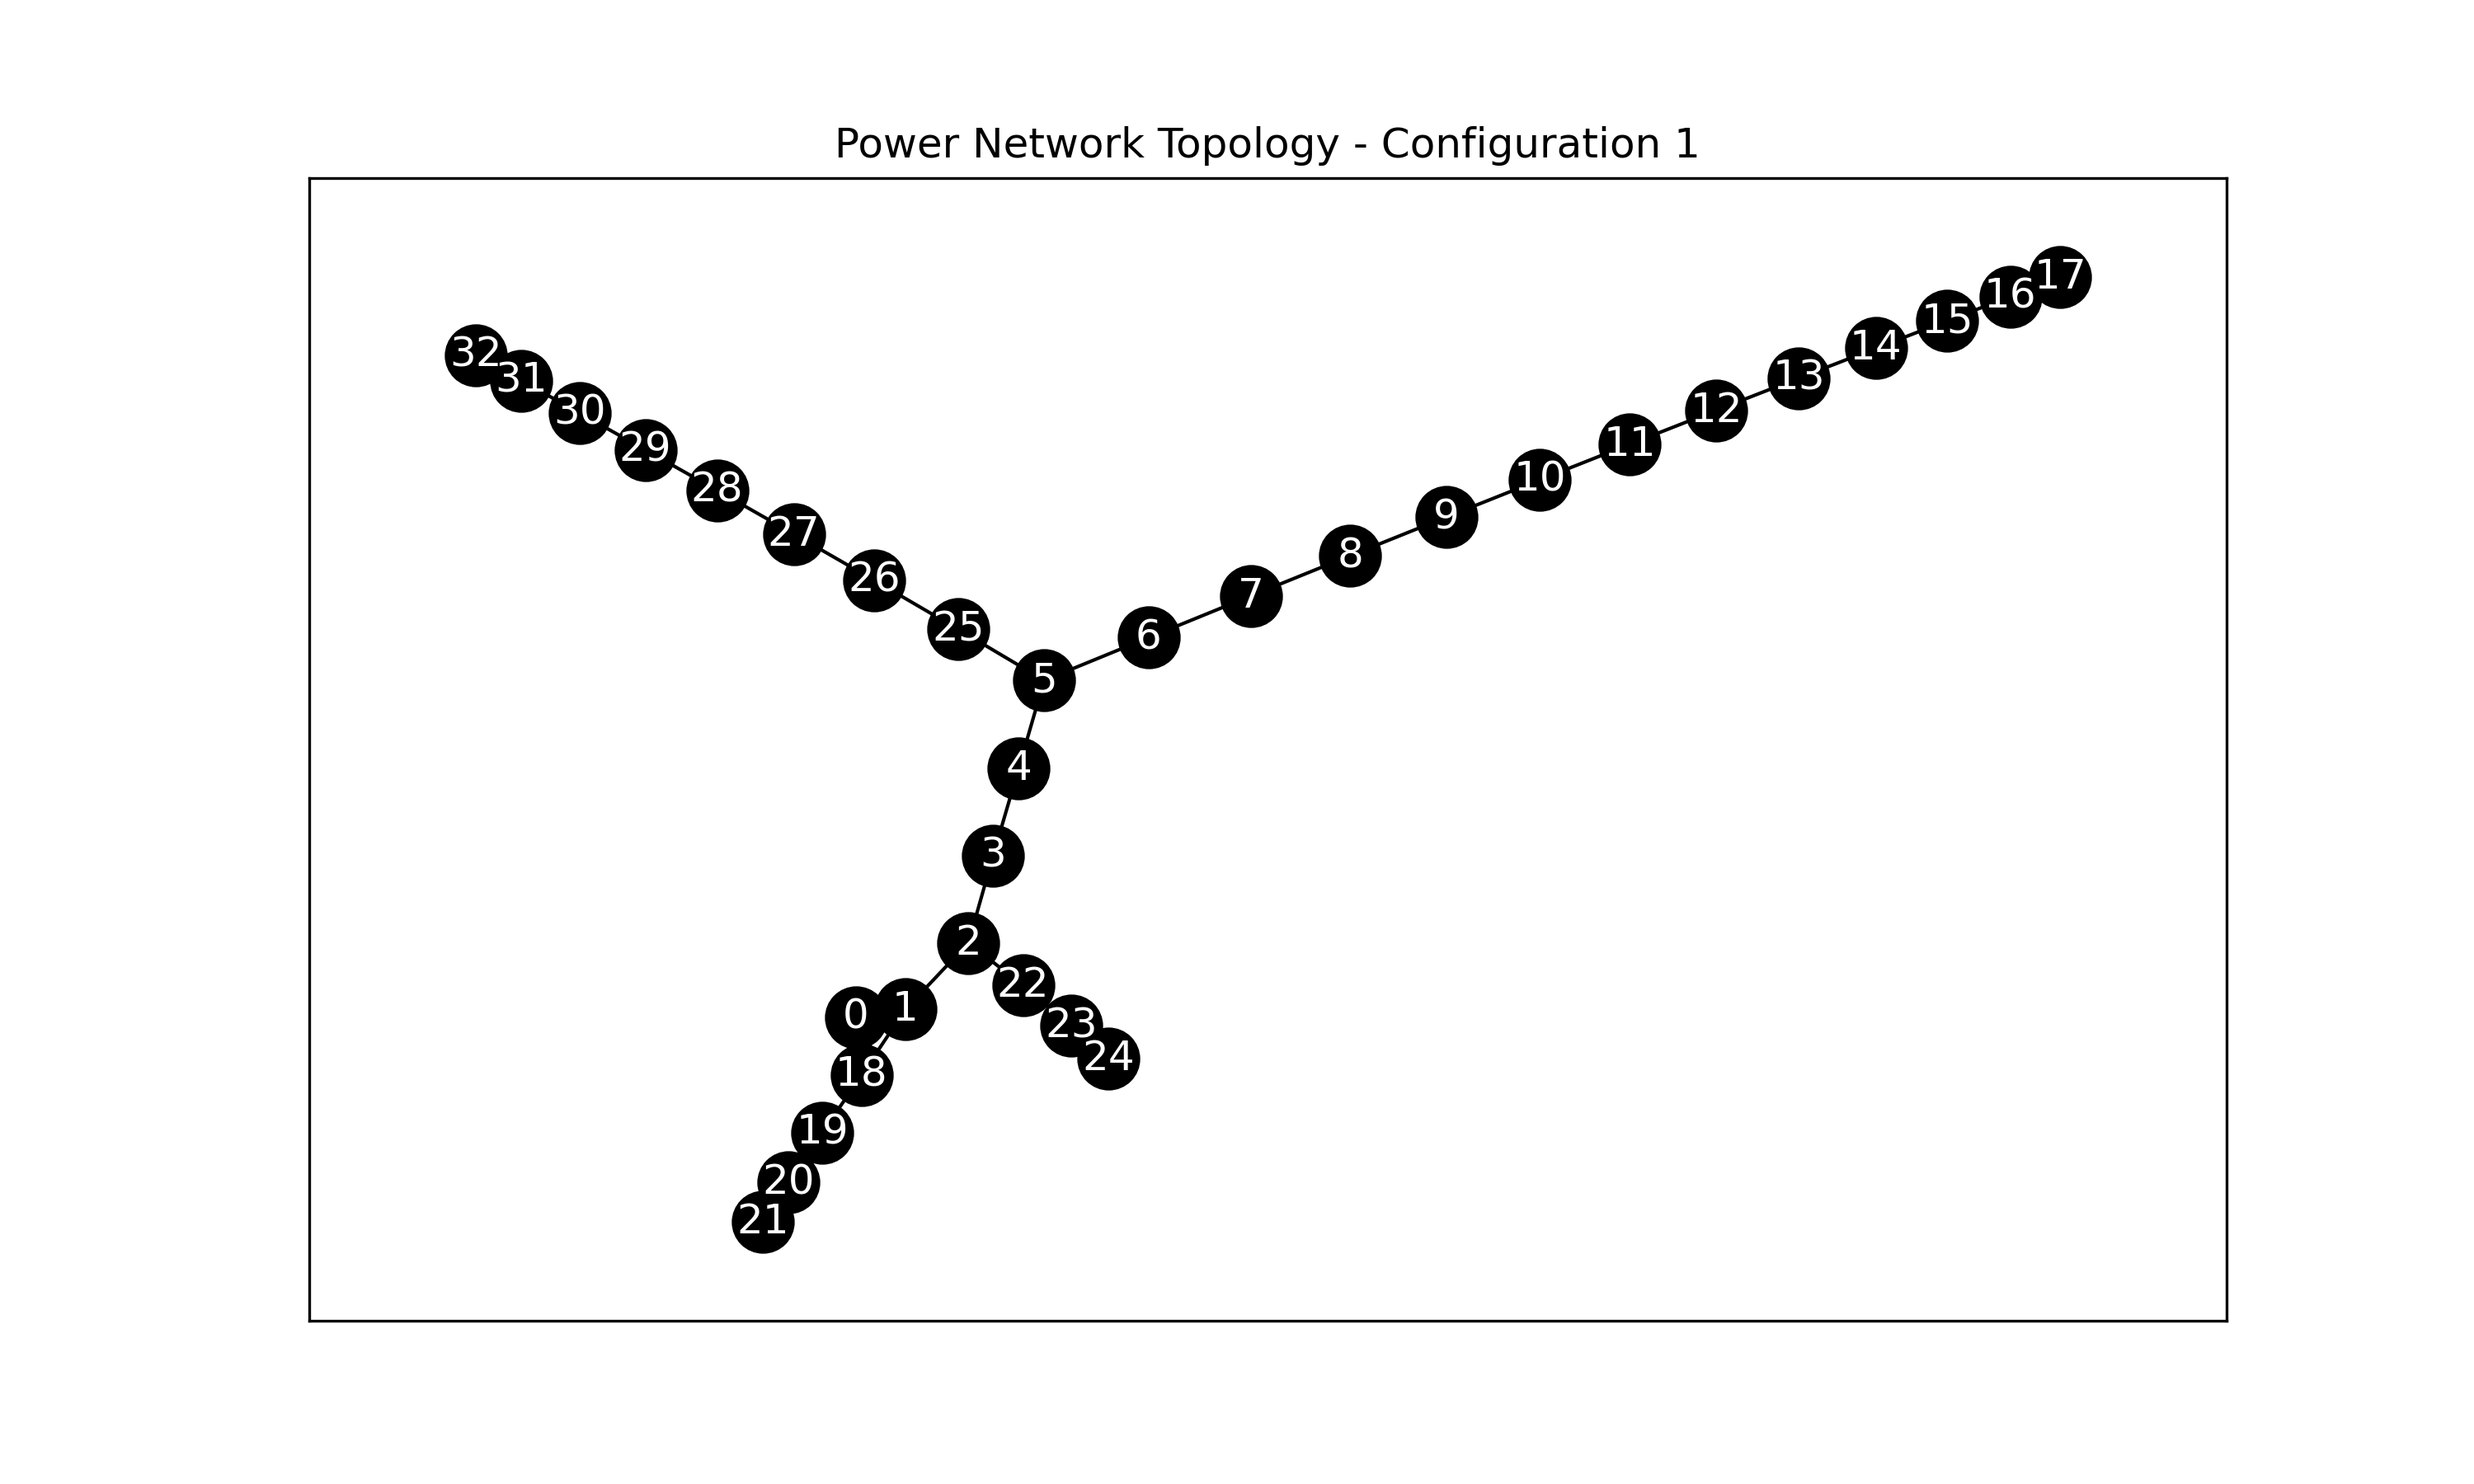
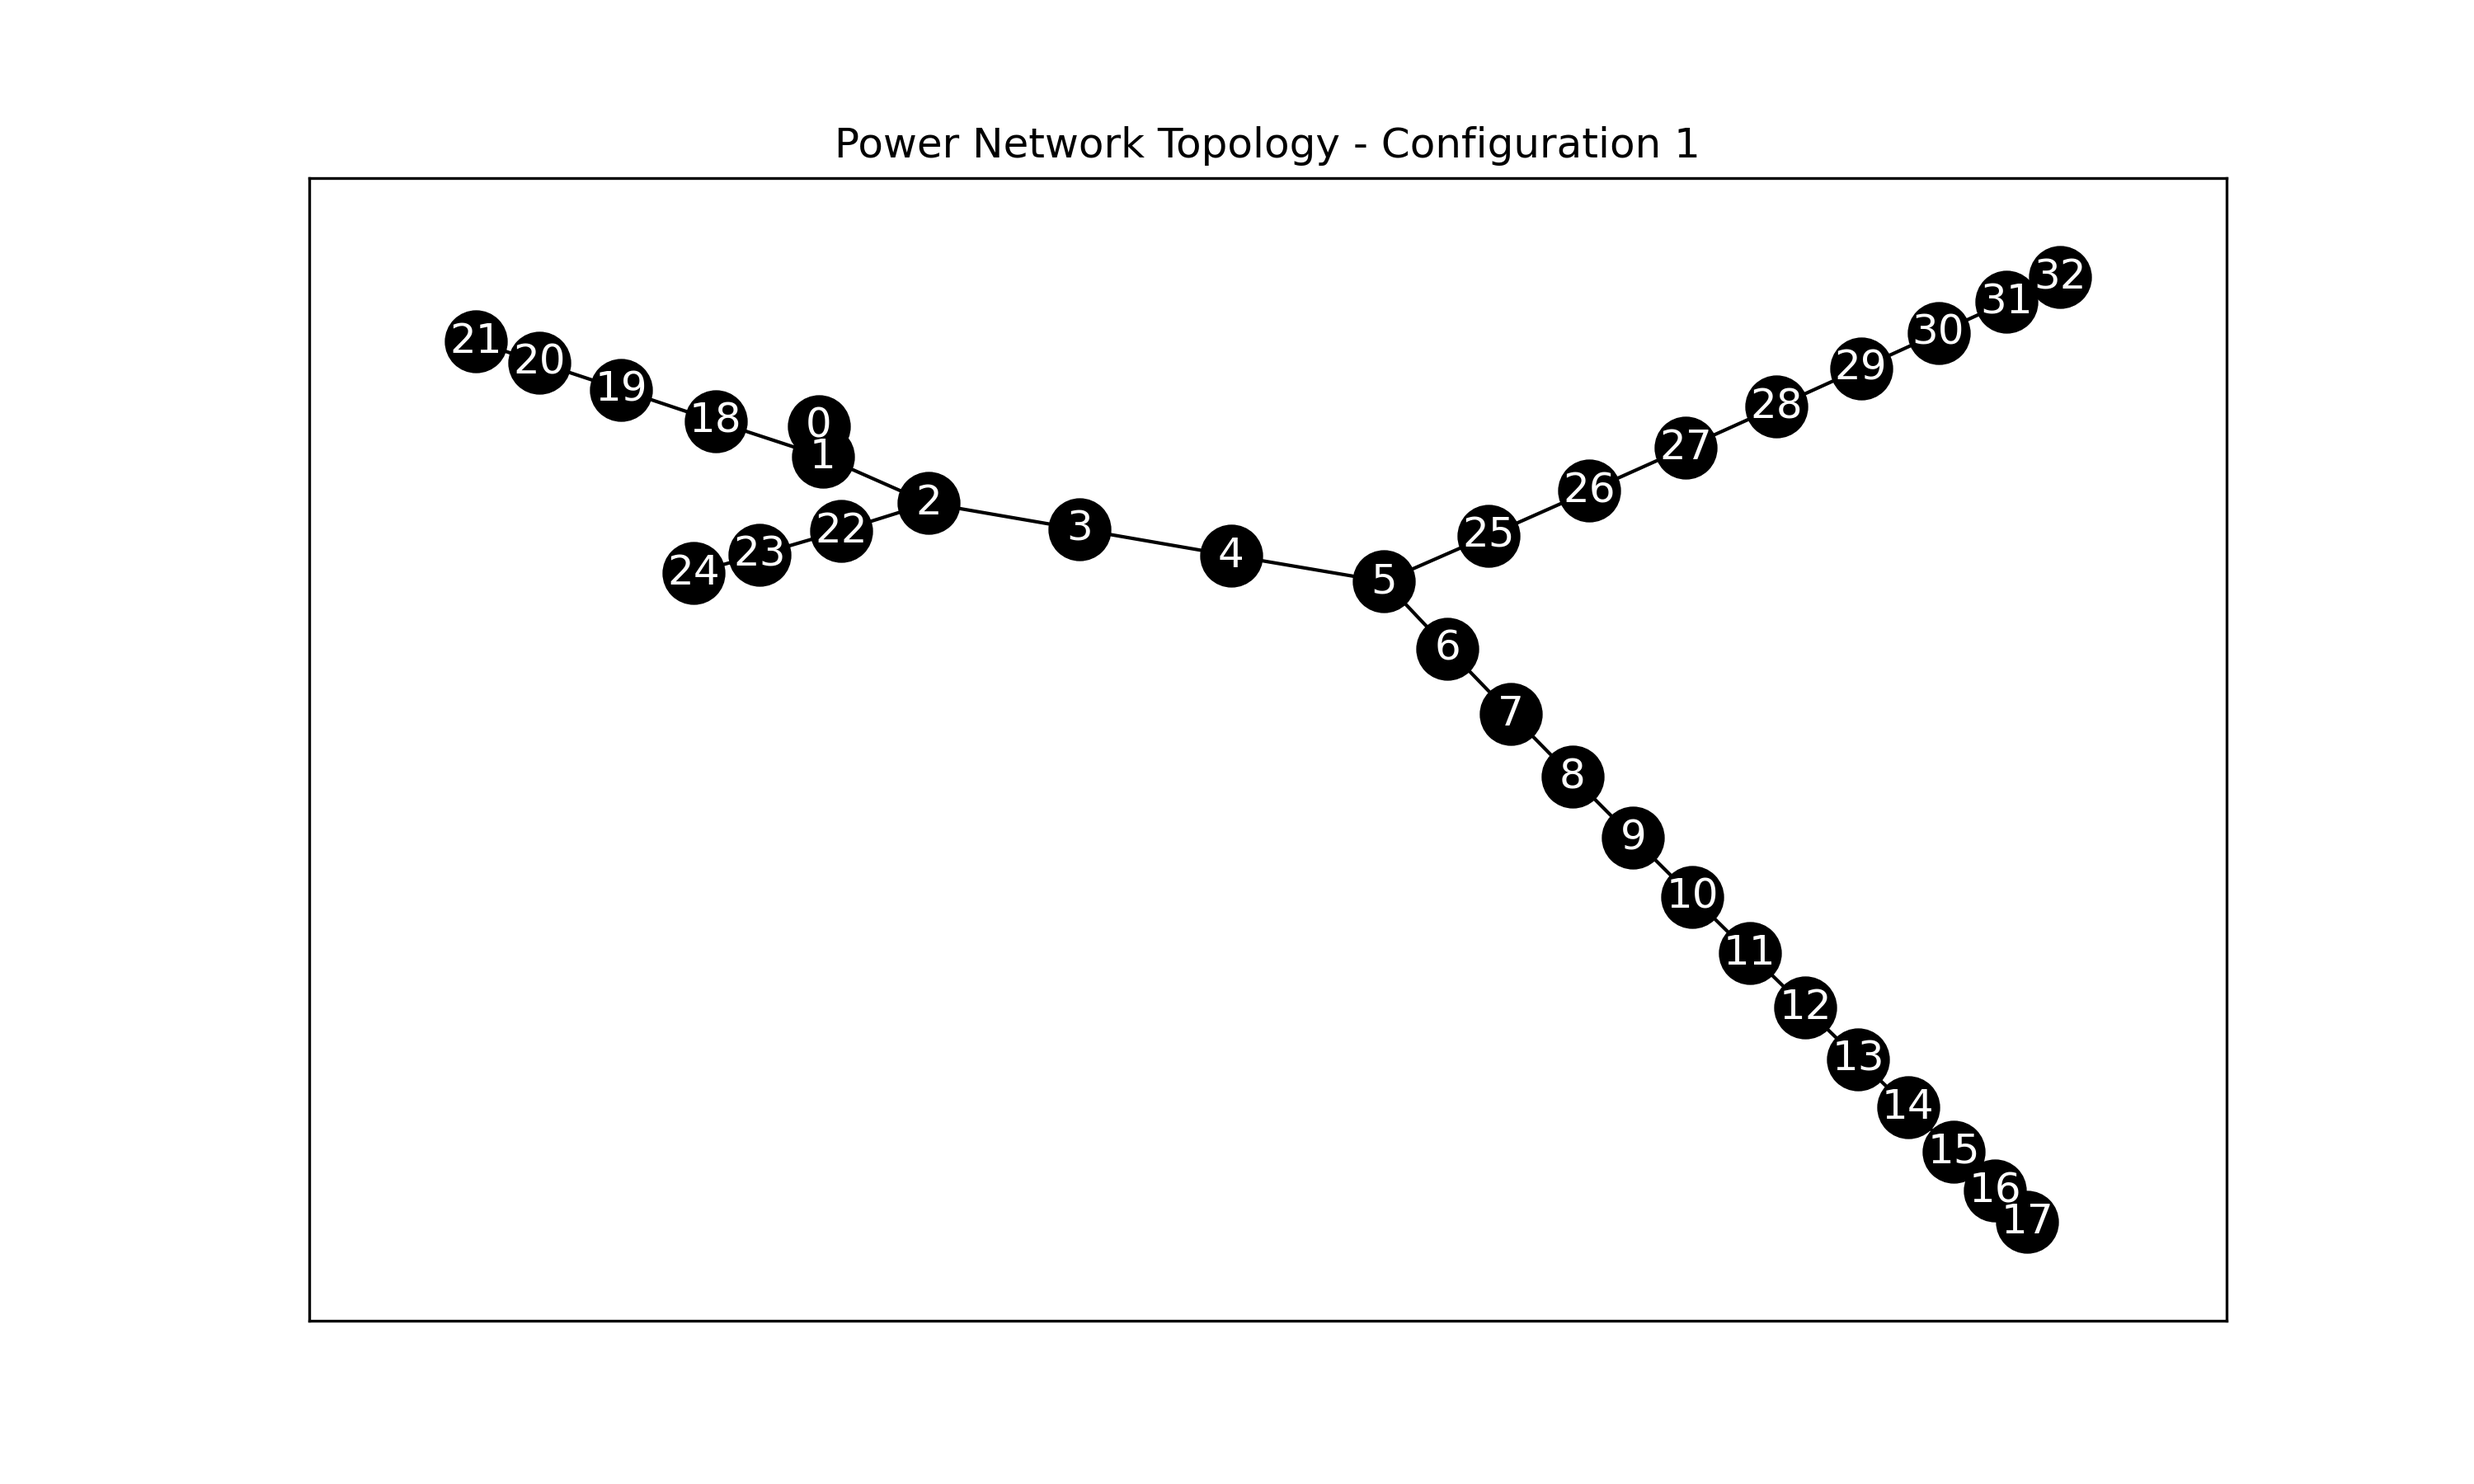
changed format and changing dataset generator

Changed region(s): [[0.155, 0.1556, 0.837, 0.84], [0.62, 0.4978, 0.837, 0.84]]

diff --git a/src/predictions.py b/src/predictions.py
@@ -1,19 +1,22 @@
-import torch
 import matplotlib.pyplot as plt
 import networkx as nx
-from model import GATNet
-from data_loader import create_dataset
 import numpy as np
+import torch
+
+from data_loader import create_dataset
+from model import GATNet
+
 
 def load_data_and_model(model_path, data_path):
-    device = torch.device('cuda' if torch.cuda.is_available() else 'cpu')
+    device = torch.device("cuda" if torch.cuda.is_available() else "cpu")
     model = GATNet().to(device)
     model.load_state_dict(torch.load(model_path))
     model.eval()
 
     data_list, target_list = create_dataset(data_path)
-    return model, data_list[100], device  # Only return the first data point
+    return model, data_list[1000], device  # Only return the first data point
     # return model, data_list, device  # Only return the first data point
+
 
 def evaluate_model(model, data, device):
     model.eval()  # Set the model to evaluation mode
@@ -21,59 +24,84 @@ def evaluate_model(model, data, device):
         data = data.to(device)
         output, attention_weights = model(data)
         edges = attention_weights[0].t().cpu().numpy()  # Transpose and convert to numpy
-        scores = attention_weights[1].squeeze().cpu().numpy()  # Squeeze and convert to numpy
+        scores = (
+            attention_weights[1].squeeze().cpu().numpy()
+        )  # Squeeze and convert to numpy
     return output, edges, scores
+
 
 def visualize_graph(edges, scores):
     G = nx.Graph()  # Use nx.DiGraph() if edges are directed
+    # G = nx.karate_club_graph()  # Use nx.DiGraph() if edges are directed
     for edge, weight in zip(edges, scores):
         G.add_edge(edge[0], edge[1], weight=weight)
 
     plt.figure(figsize=(14, 10))
     ax = plt.gca()
 
-    pos = nx.spring_layout(G, k=0.9, iterations=600, weight='weight')
-    weights = [G[u][v]['weight'] for u, v in G.edges()]
-    edge_colors = plt.cm.YlOrRd(np.array(weights) / max(weights))  # Normalize for coloring
+    pos = nx.spring_layout(G, k=0.9, iterations=600, weight="weight")
+    # pos = nx.(G)
+    weights = [G[u][v]["weight"] for u, v in G.edges()]
+    edge_colors = plt.cm.YlOrRd(
+        np.array(weights) / max(weights)
+    )  # Normalize for coloring
 
     # Node sizes can also be scaled by some property (e.g., degree)
     node_sizes = [10 + 10 * G.degree(n) for n in G.nodes()]
-    nx.draw_networkx_nodes(G, pos, node_size=node_sizes, node_color='skyblue')
+    nx.draw_networkx_nodes(G, pos, node_size=node_sizes, node_color="skyblue")
 
     # Draw regular edges
     normal_edges = [(u, v) for u, v in G.edges() if u != v]
-    nx.draw_networkx_edges(G, pos, edgelist=normal_edges, width=np.array(weights) * 5,
-                           edge_color=edge_colors, arrowsize=10)
+    nx.draw_networkx_edges(
+        G,
+        pos,
+        edgelist=normal_edges,
+        width=np.array(weights) * 5,
+        edge_color=edge_colors,
+        arrowsize=10,
+    )
 
     # Specifically draw self-loops with a different, smaller connectionstyle
     loop_edges = [(u, v) for u, v in G.edges() if u == v]
     if loop_edges:
-        loop_weights = [G[u][v]['weight'] for u, v in loop_edges]
+        loop_weights = [G[u][v]["weight"] for u, v in loop_edges]
         loop_edge_colors = plt.cm.YlOrRd(np.array(loop_weights) / max(weights))
-        nx.draw_networkx_edges(G, pos, edgelist=loop_edges, width=np.array(loop_weights) * 1.8,
-                               edge_color=loop_edge_colors, arrowsize=10, connectionstyle='arc3,rad=0.005')  # Smaller radius for loops
+        nx.draw_networkx_edges(
+            G,
+            pos,
+            edgelist=loop_edges,
+            width=np.array(loop_weights) * 1.8,
+            edge_color=loop_edge_colors,
+            arrowsize=10,
+            connectionstyle="arc3,rad=0.005",
+        )  # Smaller radius for loops
 
     # Labels and title
     nx.draw_networkx_labels(G, pos)
-    
-    # Enhanced colorbar
-    sm = plt.cm.ScalarMappable(cmap=plt.cm.YlOrRd, norm=plt.Normalize(vmin=min(scores), vmax=max(scores)))
-    sm.set_array([])
-    plt.colorbar(sm, orientation='vertical', label='Attention Weights', ax=ax)
 
-    plt.title('Graph Attention Network Visualization')
+    # Enhanced colorbar
+    sm = plt.cm.ScalarMappable(
+        cmap=plt.cm.YlOrRd, norm=plt.Normalize(vmin=min(scores), vmax=max(scores))
+    )
+    sm.set_array([])
+    plt.colorbar(sm, orientation="vertical", label="Attention Weights", ax=ax)
+
+    plt.title("Graph Attention Network Visualization")
+    plt.savefig(f'plots/attention_visualisation', dpi=300)
     plt.show()
 
+
 def main():
-    model_path = 'checkpoints/best_model.pth'
+    model_path = "checkpoints/best_model.pth"
     # data_path = 'raw_data/network_results.h5'
-    data_path = 'raw_data/33_bus_results.h5'
+    data_path = "raw_data/33_bus_results.h5"
     model, first_data, device = load_data_and_model(model_path, data_path)
     print(first_data)
     # first_data = torch.tensor(first_data)
-    _, edges, scores = evaluate_model(model, first_data, device)
+    output, edges, scores = evaluate_model(model, first_data, device)
+    print(output)
     visualize_graph(edges, scores)
+
 
 if __name__ == "__main__":
     main()
-

diff --git a/src/main.py b/src/main.py
@@ -1,53 +1,80 @@
+from test import test_model
+
+import matplotlib.pyplot as plt
 import torch
-from torch_geometric.loader import DataLoader
 import torch.optim as optim
 from sklearn.model_selection import train_test_split
-import matplotlib.pyplot as plt
-from model import GATNet
+from torch_geometric.loader import DataLoader
+
 from data_loader import create_dataset
+from model import GATNet
 from train import train_model
-from test import test_model 
+
 
 def split_data(data_list, target_list):
     data_train, data_temp, target_train, target_temp = train_test_split(
-        data_list, target_list, test_size=0.3, random_state=42)
+        data_list, target_list, test_size=0.3, random_state=42
+    )
     data_val, data_test, target_val, target_test = train_test_split(
-        data_temp, target_temp, test_size=0.5, random_state=42)
+        data_temp, target_temp, test_size=0.5, random_state=42
+    )
     return data_train, data_val, data_test, target_train, target_val, target_test
+
 
 def plot_performance(train_loss, val_loss):
     plt.figure(figsize=(10, 5))
-    plt.plot(train_loss, label='Training Loss')
-    plt.plot(val_loss, label='Validation Loss')
-    plt.title('Training and Validation Loss Over Epochs')
-    plt.xlabel('Epoch')
-    plt.ylabel('Loss')
+    plt.plot(train_loss, label="Training Loss")
+    plt.plot(val_loss, label="Validation Loss")
+    plt.title("Training and Validation Loss Over Epochs")
+    plt.xlabel("Epoch")
+    plt.ylabel("Loss")
     plt.legend()
     plt.grid(True)
     plt.show()
 
-def main():
-    device = torch.device('cuda' if torch.cuda.is_available() else 'cpu')
-    print(f'This training is using {device}')
-    data_list, target_list = create_dataset('raw_data/network_results.h5')
-    data_train, data_val, data_test, target_train, target_val, target_test = split_data(data_list, target_list)
 
-    batch_size = 256 
-    train_loader = DataLoader(list(zip(data_train, target_train)), batch_size=batch_size, shuffle=True, num_workers = 8)
-    val_loader = DataLoader(list(zip(data_val, target_val)), batch_size=batch_size, shuffle=False, num_workers = 6)
-    test_loader = DataLoader(list(zip(data_test, target_test)), batch_size=batch_size, shuffle=False, num_workers = 6)
+def main():
+    device = torch.device("cuda" if torch.cuda.is_available() else "cpu")
+    print(f"This training is using {device}")
+    data_list, target_list = create_dataset("raw_data/network_results.h5")
+    data_train, data_val, data_test, target_train, target_val, target_test = split_data(
+        data_list, target_list
+    )
+
+    batch_size = 256
+
+    train_loader = DataLoader(
+        list(zip(data_train, target_train)),
+        batch_size=batch_size,
+        shuffle=True,
+        num_workers=8,
+    )
+    val_loader = DataLoader(
+        list(zip(data_val, target_val)),
+        batch_size=batch_size,
+        shuffle=False,
+        num_workers=6,
+    )
+    test_loader = DataLoader(
+        list(zip(data_test, target_test)),
+        batch_size=batch_size,
+        shuffle=False,
+        num_workers=6,
+    )
 
     model = GATNet().to(device)
     optimizer = optim.Adam(model.parameters(), lr=0.001)
     criterion = torch.nn.MSELoss()
 
     patience = 15
-    best_val_loss = float('inf')
+    best_val_loss = float("inf")
     epochs_no_improve = 0
 
     train_losses, val_losses, test_losses = [], [], []
     for epoch in range(10000):
-        train_loss = train_model(model, train_loader, criterion, optimizer, device, epoch)
+        train_loss = train_model(
+            model, train_loader, criterion, optimizer, device, epoch
+        )
         val_loss = test_model(model, val_loader, criterion, device)
         test_loss = test_model(model, test_loader, criterion, device)
 
@@ -58,18 +85,20 @@ def main():
         if val_loss < best_val_loss:
             best_val_loss = val_loss
             epochs_no_improve = 0
-            torch.save(model.state_dict(), 'checkpoints/best_model.pth')
+            torch.save(model.state_dict(), "checkpoints/best_model.pth")
         else:
             epochs_no_improve += 1
 
         if epochs_no_improve >= patience:
-            print(f'Early stopping triggered after {epoch + 1} epochs.')
+            print(f"Early stopping triggered after {epoch + 1} epochs.")
             break
 
-        print(f'Epoch {epoch+1}, Train Loss: {train_loss:.4f}, Val Loss: {val_loss:.4f}, Test Loss: {test_loss:.4f}')
+        print(
+            f"Epoch {epoch+1}, Train Loss: {train_loss:.4f}, Val Loss: {val_loss:.4f}, Test Loss: {test_loss:.4f}"
+        )
 
     plot_performance(train_losses, test_losses)
 
+
 if __name__ == "__main__":
     main()
-
